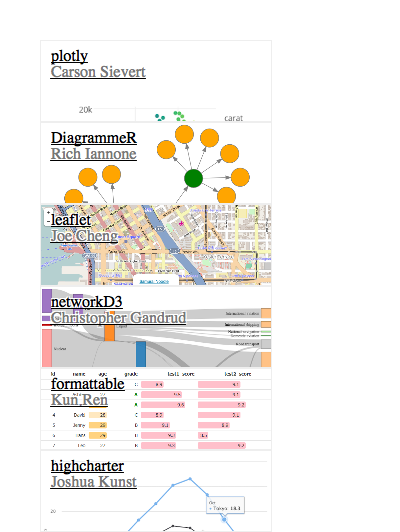
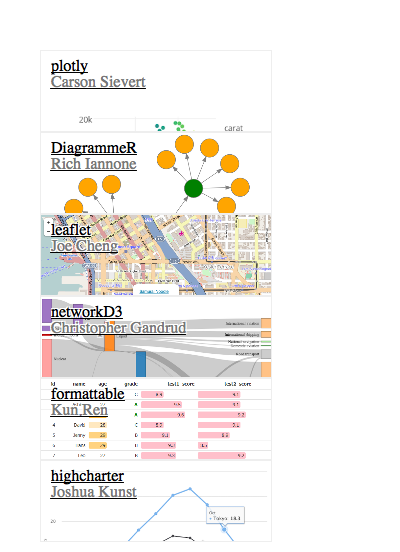
tweaks css to give gallerywidget "room" at the top and bottom

diff --git a/docs/index.html b/docs/index.html
@@ -109,8 +109,8 @@
 </ul>
 <p>The <code><a href="reference/gallerywidget.html">gallerywidget()</a></code> function is used to render the widget:</p>
 <div class="sourceCode" id="cb4"><pre class="sourceCode r"><code class="sourceCode r"><a class="sourceLine" id="cb4-1" data-line-number="1"><span class="kw"><a href="reference/gallerywidget.html">gallerywidget</a></span>(data_htmlwidgets)</a></code></pre></div>
-<div id="htmlwidget-0211913cfcb8bf57c385" style="width:auto;height:auto;" class="gallerywidget html-widget"></div>
-<script type="application/json" data-for="htmlwidget-0211913cfcb8bf57c385">{"x":{"data":{"href":["https://plot.ly/r","https://rich-iannone.github.io/DiagrammeR","https://rstudio.github.io/leaflet","https://christophergandrud.github.io/networkD3","https://renkun-ken.github.io/formattable","http://jkunst.com/highcharter/"],"image":["http://gallery.htmlwidgets.org/images/ropensci-plotly.png","http://gallery.htmlwidgets.org/images/rich-iannone-DiagrammeR.png","http://gallery.htmlwidgets.org/images/rstudio-leaflet.png","http://gallery.htmlwidgets.org/images/christophergandrud-networkD3.png","http://gallery.htmlwidgets.org/images/renkun-ken-formattable.png","http://gallery.htmlwidgets.org/images/highcharter.png"],"title":["plotly","DiagrammeR","leaflet","networkD3","formattable","highcharter"],"subtitle":["Carson Sievert","Rich Iannone","Joe Cheng","Christopher Gandrud","Kun Ren","Joshua Kunst"]}},"evals":[],"jsHooks":[]}</script><hr>
+<div id="htmlwidget-61d72e8802ab4b22d25d" style="width:auto;height:auto;" class="gallerywidget html-widget"></div>
+<script type="application/json" data-for="htmlwidget-61d72e8802ab4b22d25d">{"x":{"data":{"href":["https://plot.ly/r","https://rich-iannone.github.io/DiagrammeR","https://rstudio.github.io/leaflet","https://christophergandrud.github.io/networkD3","https://renkun-ken.github.io/formattable","http://jkunst.com/highcharter/"],"image":["http://gallery.htmlwidgets.org/images/ropensci-plotly.png","http://gallery.htmlwidgets.org/images/rich-iannone-DiagrammeR.png","http://gallery.htmlwidgets.org/images/rstudio-leaflet.png","http://gallery.htmlwidgets.org/images/christophergandrud-networkD3.png","http://gallery.htmlwidgets.org/images/renkun-ken-formattable.png","http://gallery.htmlwidgets.org/images/highcharter.png"],"title":["plotly","DiagrammeR","leaflet","networkD3","formattable","highcharter"],"subtitle":["Carson Sievert","Rich Iannone","Joe Cheng","Christopher Gandrud","Kun Ren","Joshua Kunst"]}},"evals":[],"jsHooks":[]}</script>
 </div>
 <div id="acknowledgements" class="section level2">
 <h2 class="hasAnchor">

diff --git a/inst/htmlwidgets/lib/gallerywidget-0.0.1/gallerywidget.css b/inst/htmlwidgets/lib/gallerywidget-0.0.1/gallerywidget.css
@@ -1,4 +1,13 @@
 /* adapted from https://bl.ocks.org */
+
+/* using 20px at top - when preview elements are placed,
+ * each is "dragged" up by 10px, leaving 10px at top
+ * and bottom of the gallerywidget
+ */
+.gallerywidget {
+  margin: 20px 0 0 0;
+}
+
 .gallerywidget-title {
   overflow: hidden;
   text-overflow: ellipsis;
@@ -16,6 +25,8 @@
 
     color: #000;
     padding: 8px 10px;
+    /* "drags"" the element up 10 px, see .gallerywidget css */
+    margin: -10px 0 10px 0;
 
     background-position: 50% 0%;
     background-size: cover;
@@ -29,8 +40,6 @@
     display: inline-block;
     float: left;
     line-height: normal;
-    /* margin: 0 10px 10px 0; */
-    margin: 0;
     position: relative;
     text-shadow: 1px 1px 0 #fff, 1px -1px 0 #fff, -1px 1px 0 #fff, -1px -1px 0 #fff;
     -webkit-transition: ease 2000ms background-position;
@@ -51,5 +60,6 @@
   border: solid 2px #4682b4;
   padding: 7px 9px;
 }
+
 
 

diff --git a/docs/index_files/gallerywidget-0.0.1/gallerywidget.css b/docs/index_files/gallerywidget-0.0.1/gallerywidget.css
@@ -16,6 +16,7 @@
 
     color: #000;
     padding: 8px 10px;
+    margin: -10px 0 10px 0;
 
     background-position: 50% 0%;
     background-size: cover;
@@ -29,8 +30,6 @@
     display: inline-block;
     float: left;
     line-height: normal;
-    /* margin: 0 10px 10px 0; */
-    margin: 0;
     position: relative;
     text-shadow: 1px 1px 0 #fff, 1px -1px 0 #fff, -1px 1px 0 #fff, -1px -1px 0 #fff;
     -webkit-transition: ease 2000ms background-position;
@@ -52,4 +51,7 @@
   padding: 7px 9px;
 }
 
+.gallerywidget {
+  margin: 20px 0 0 0;
+}
 

diff --git a/README.md b/README.md
@@ -63,8 +63,6 @@ gallerywidget(data_htmlwidgets)
 
 <img src="man/figures/README-unnamed-chunk-2-1.png" width="100%" />
 
------
-
 ## Acknowledgements
 
 As mentioned above, this work is inspired by the galleries for from Mike
